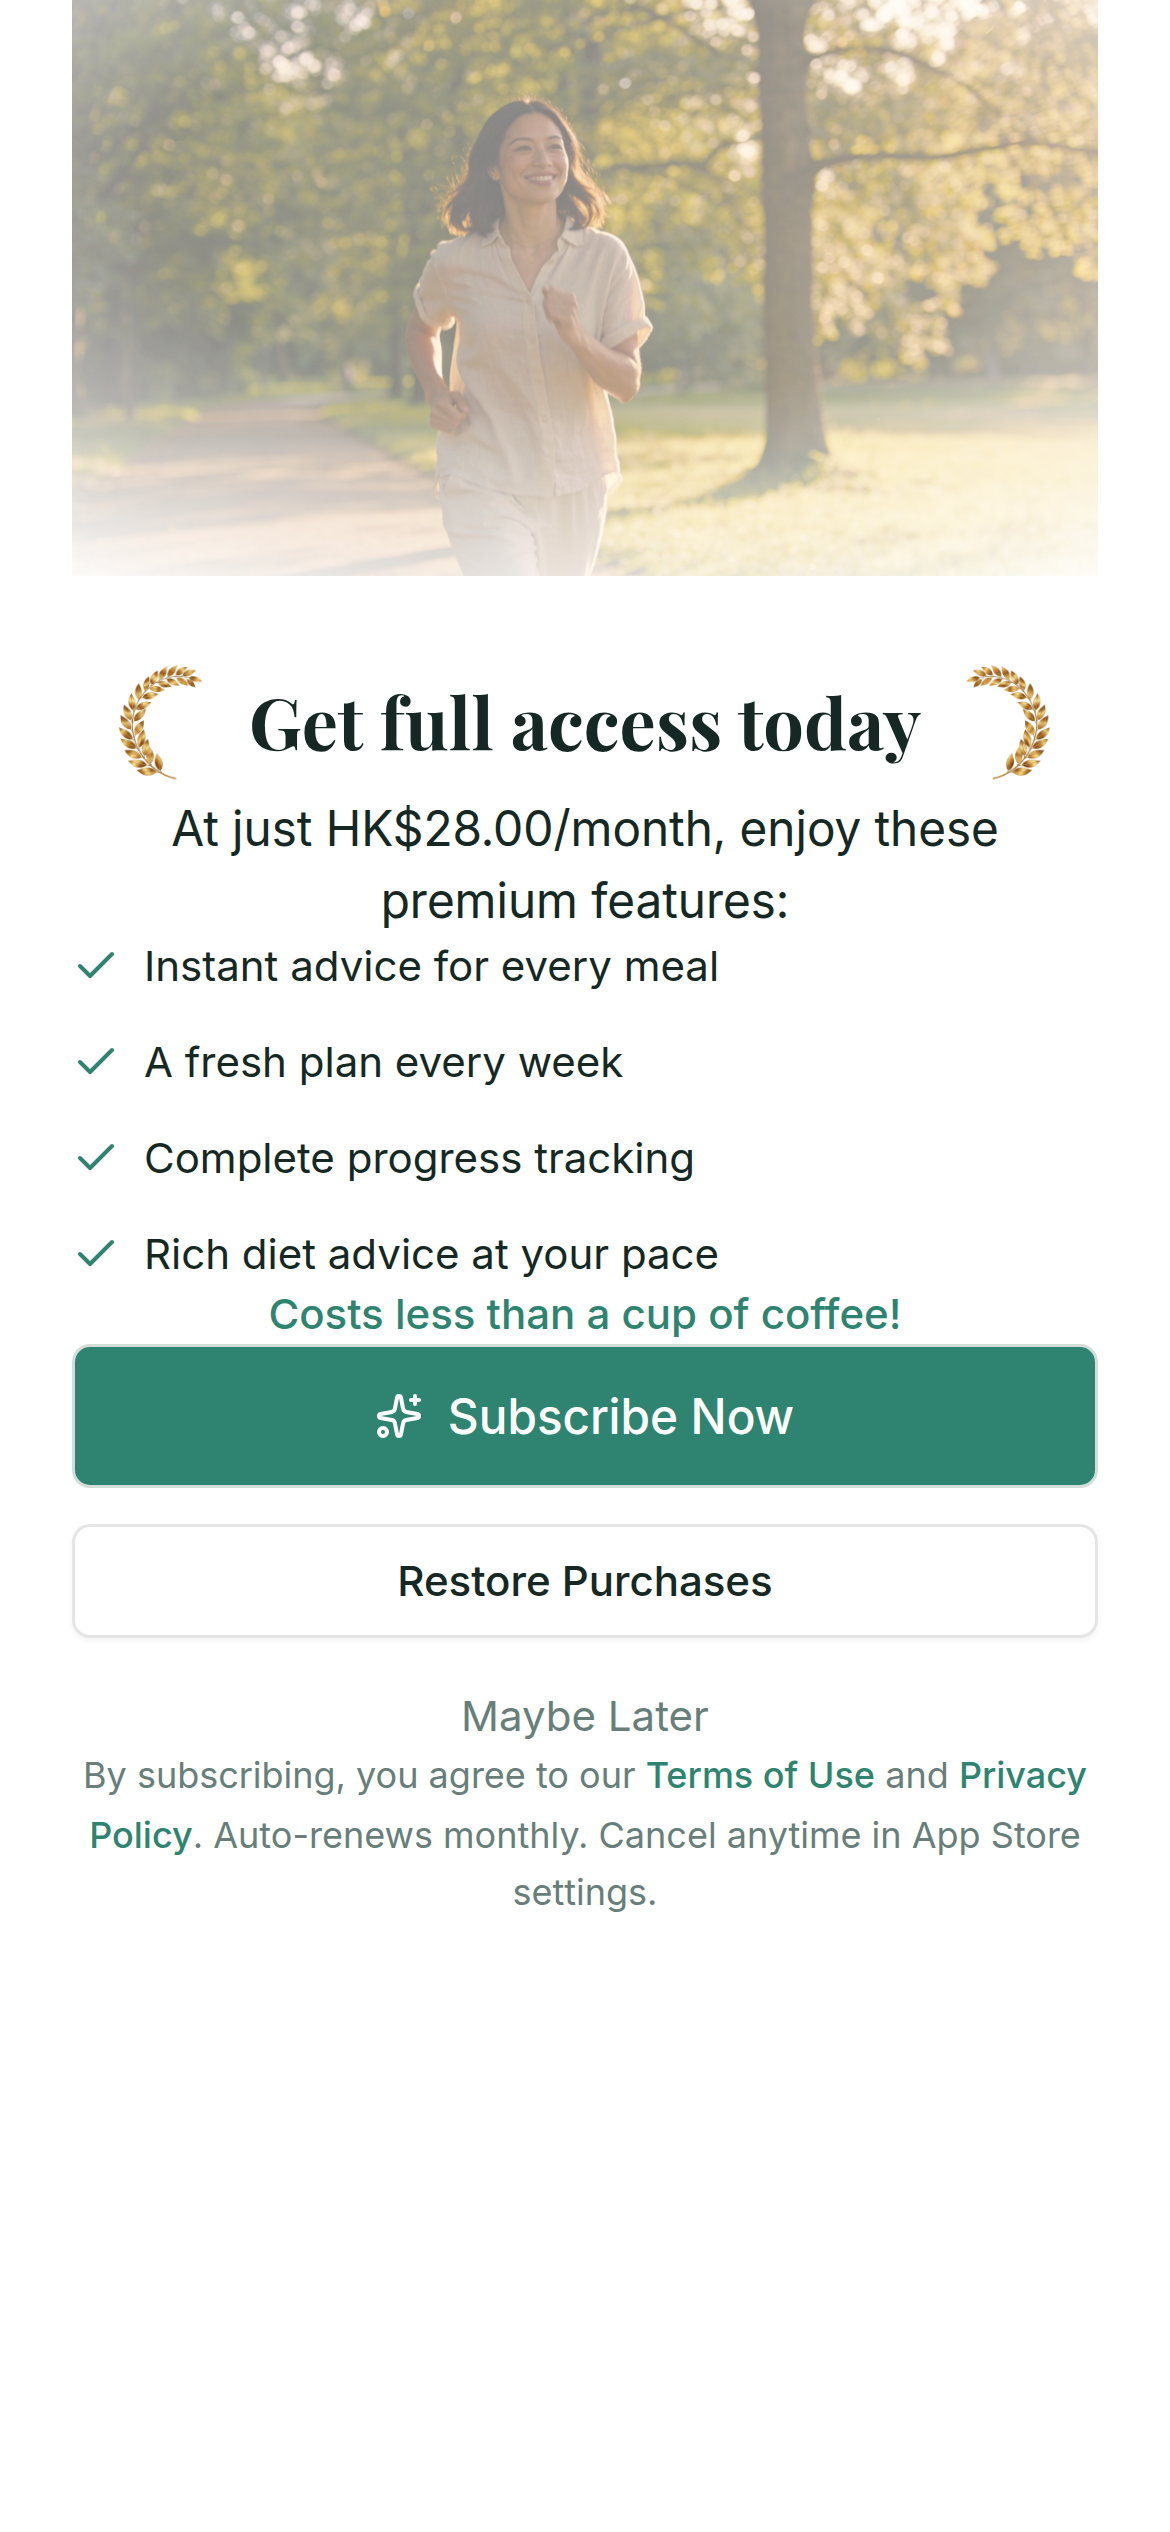
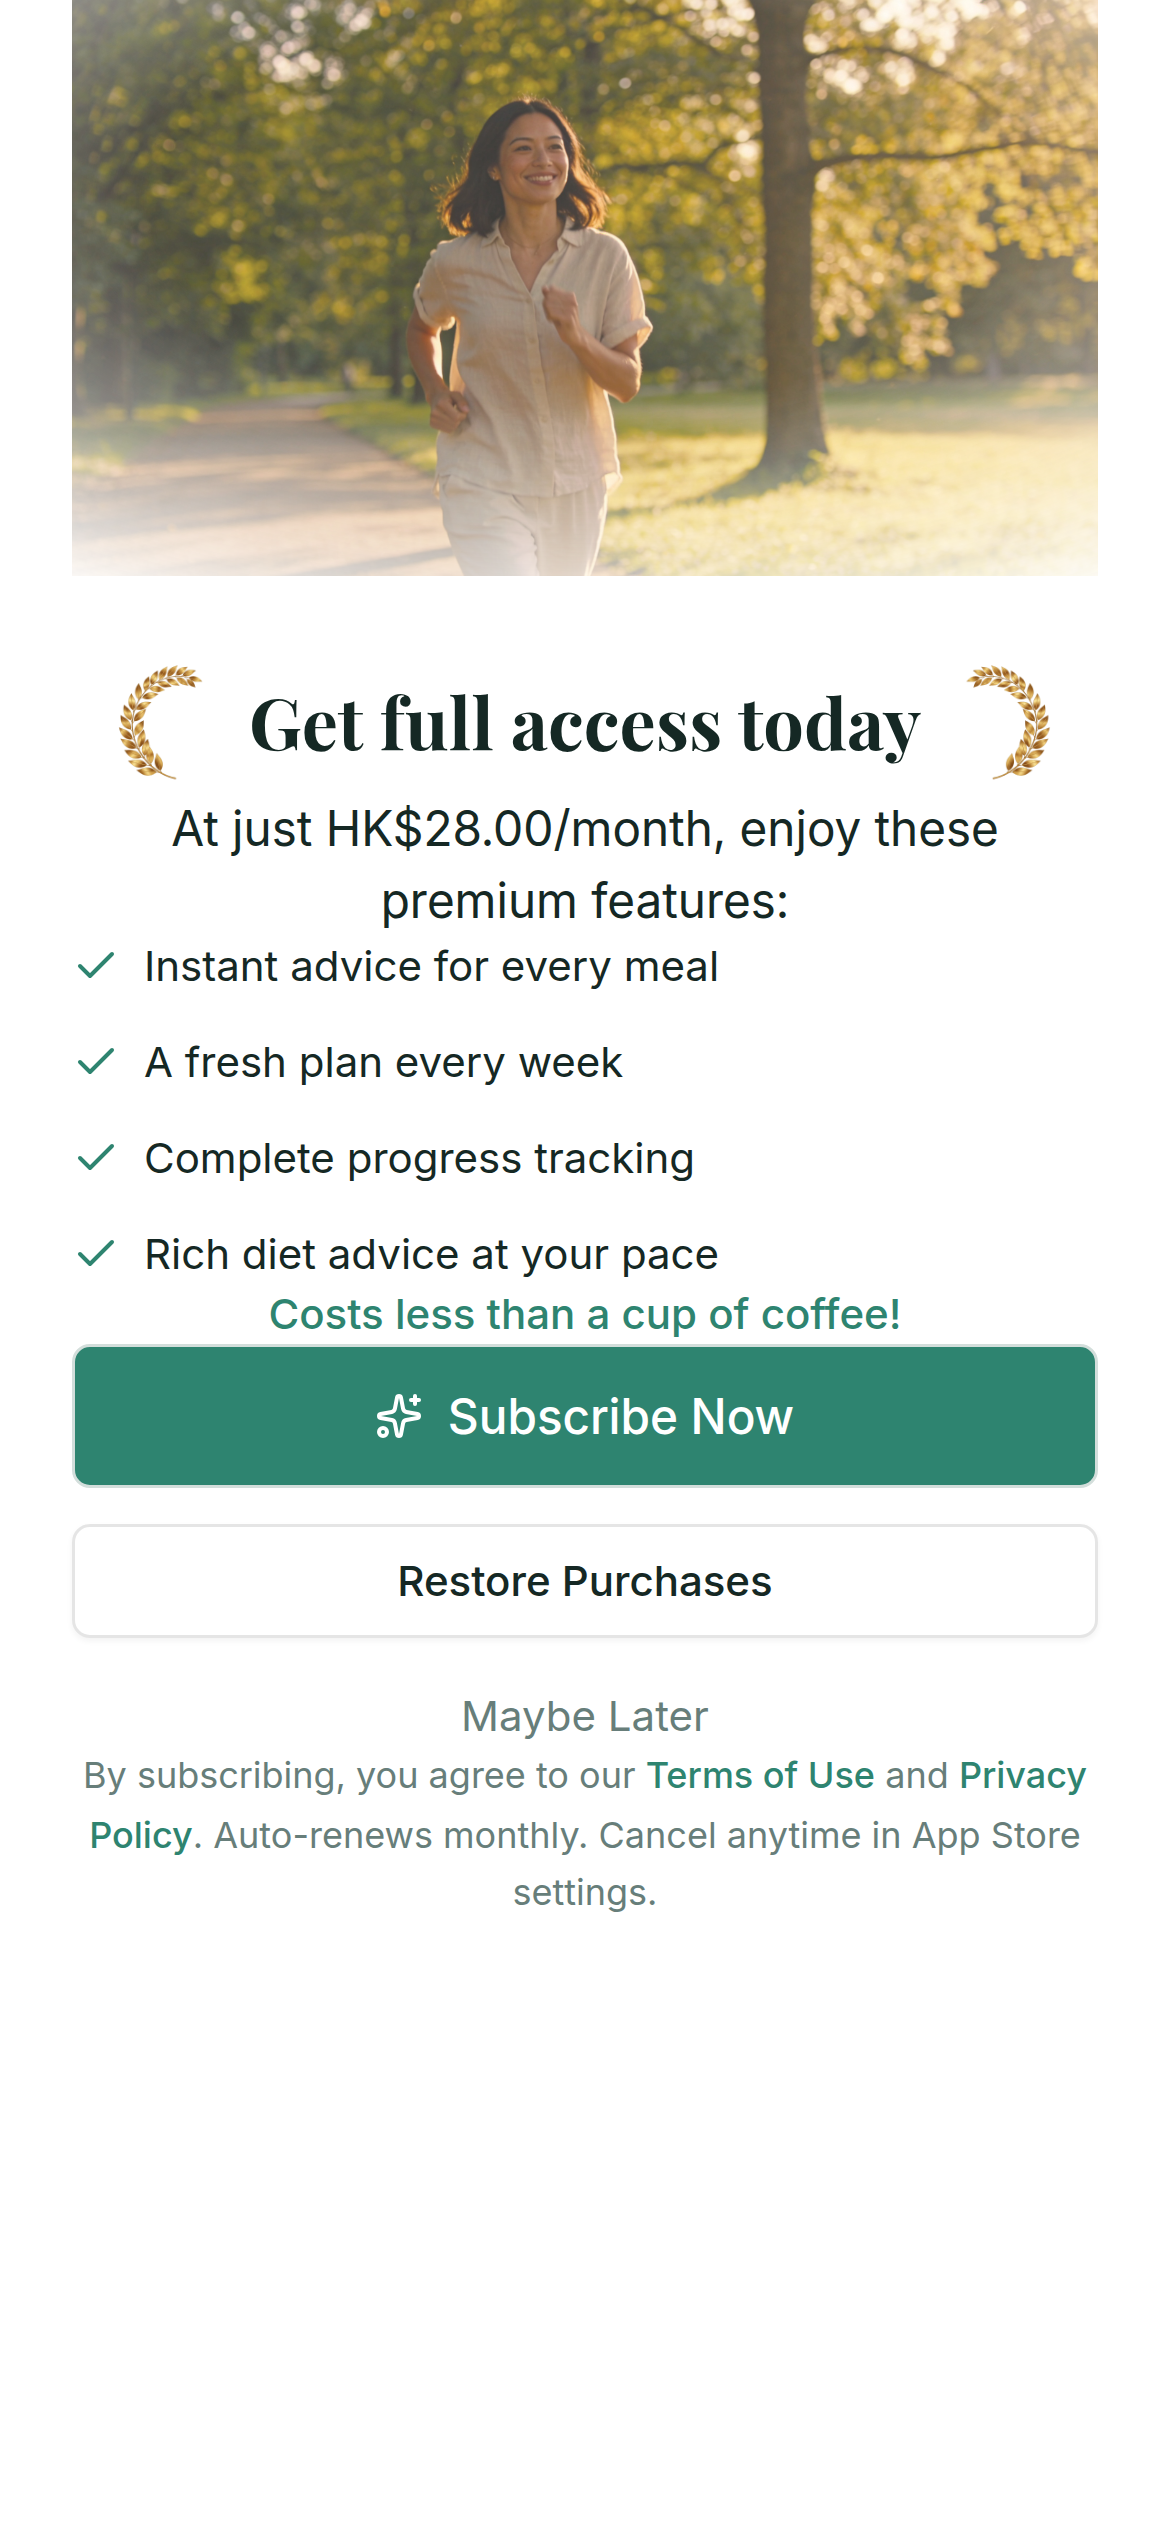
Task #412: Paywall hero — bleed sides + opacity 80%
User reported empty white strips on both sides of the running-woman
paywall hero, even though the layout intended an edge-to-edge bleed.

Deviation from task file: the original task plan blamed feathering and
proposed swapping the radial mask for a bottom-only linear fade. After
diagnosis the user explicitly corrected this — the cause was NOT the
mask. Root cause: the `<img>` used Tailwind class
`w-[calc(100%+3rem)]`, which compiles to `calc(100%+3rem)` — invalid
CSS because `calc()` requires whitespace around `+` and `-`. Browsers
silently dropped the width, the image fell back to the parent's 342 px
content area (390 px frame minus `px-6` padding on each side), and
`-mx-6` only shifted the box, leaving a 48 px gap.

Fix:
- client/src/components/paywall-modal.tsx: swap class to
  `w-[calc(100%_+_3rem)]` so Tailwind emits valid `calc(100% + 3rem)`.
- Bump hero opacity from 0.5 to 0.8 per user request.
- Mask / feathering left untouched per explicit user instruction.
- scripts/screenshot-paywall-en.mjs: update sandbox port 23637 → 23636
  (current Vite preview port).
- Re-ran Playwright capture, copied new PNG to .canvas/assets/paywall_en.png,
  updated shape `m384-paywall-en` src with cache-busted URL.

Verified: regenerated screenshot shows the photo flush with both side
edges of the 390 px frame, no white strips, and the running woman is
clearly visible at the higher opacity.

Changed region(s): [[0.0615, 0.0, 0.9538, 0.2496]]

diff --git a/client/src/components/paywall-modal.tsx b/client/src/components/paywall-modal.tsx
@@ -121,10 +121,10 @@ export default function PaywallModal({ open, onClose, onPurchaseSuccess, lockApp
               alt=""
               data-testid="paywall-hero-image"
               aria-hidden="true"
-              className="w-[calc(100%+3rem)] object-cover -mx-6 mb-6 pointer-events-none select-none"
+              className="w-[calc(100%_+_3rem)] object-cover -mx-6 mb-6 pointer-events-none select-none"
               style={{
                 aspectRatio: "16 / 9",
-                opacity: 0.5,
+                opacity: 0.8,
                 WebkitMaskImage:
                   "radial-gradient(ellipse 95% 80% at 50% 35%, #000 45%, rgba(0,0,0,0.6) 70%, transparent 100%)",
                 maskImage:
